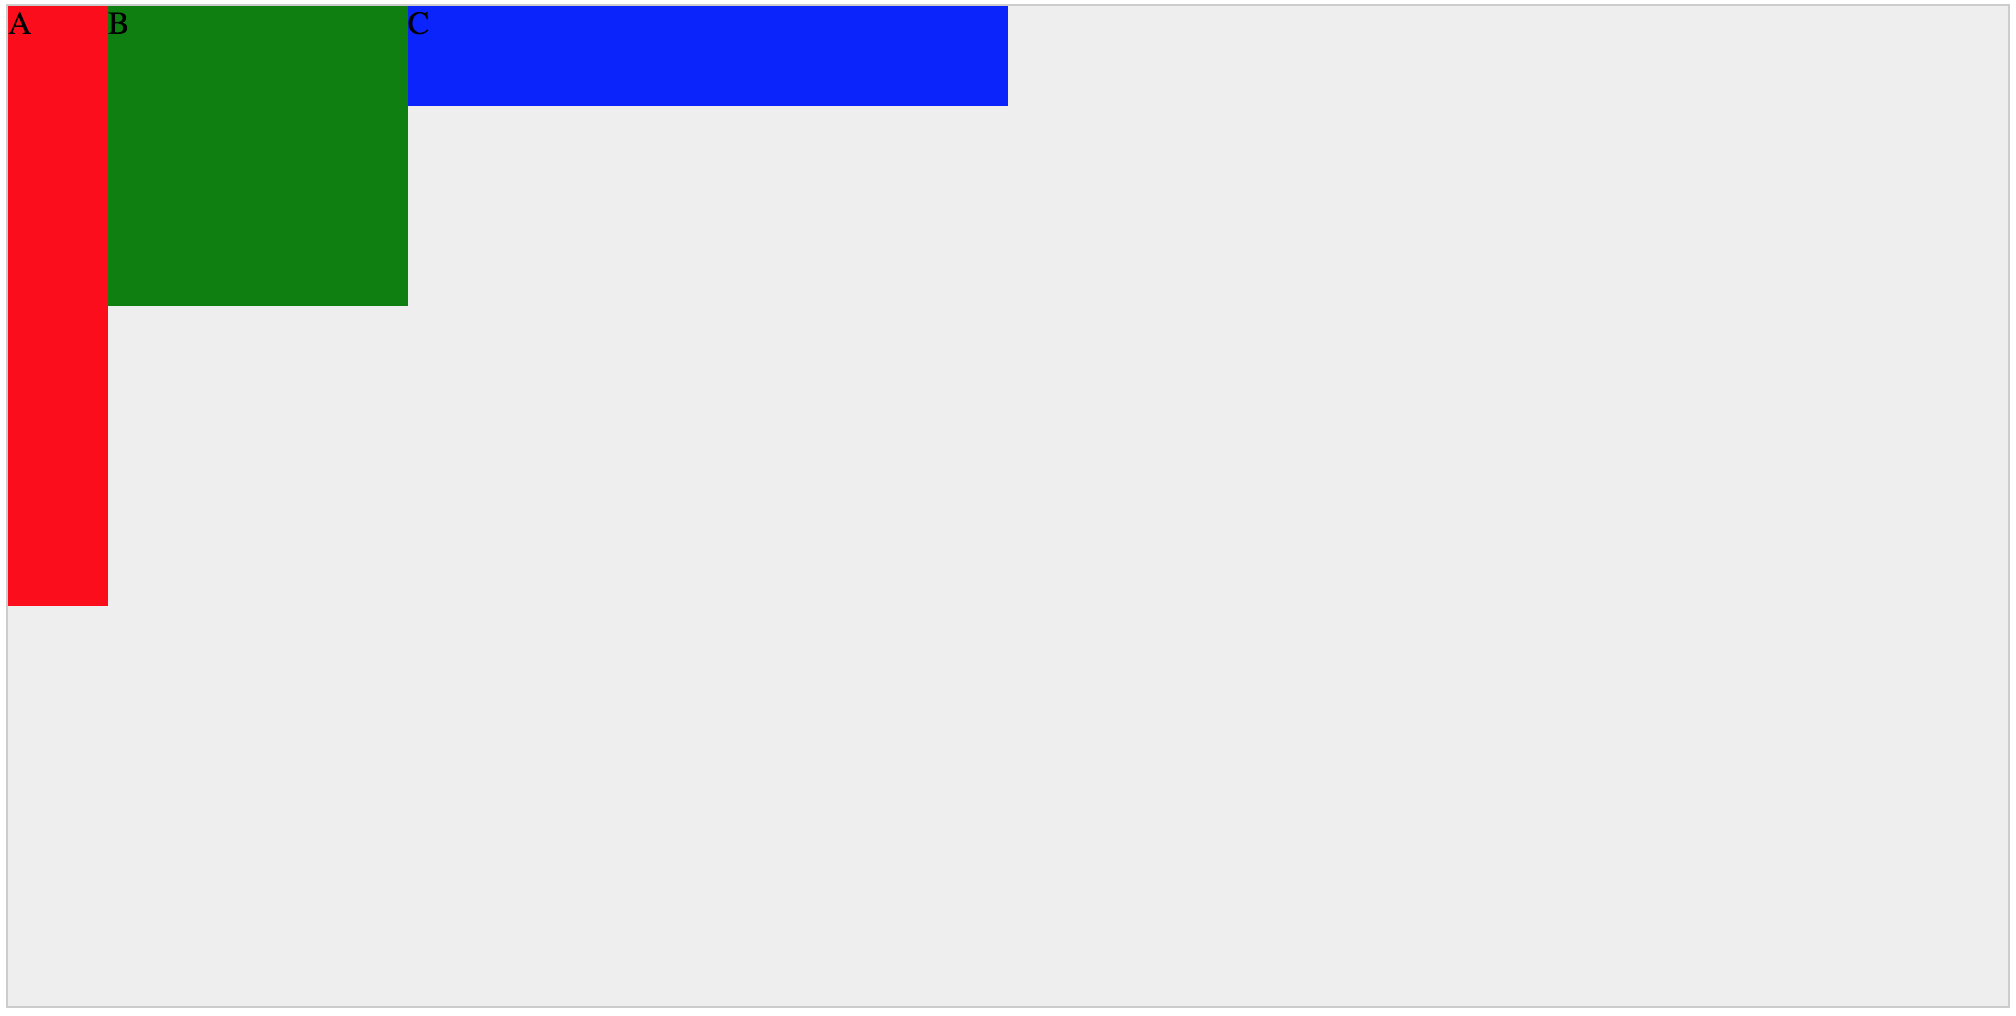
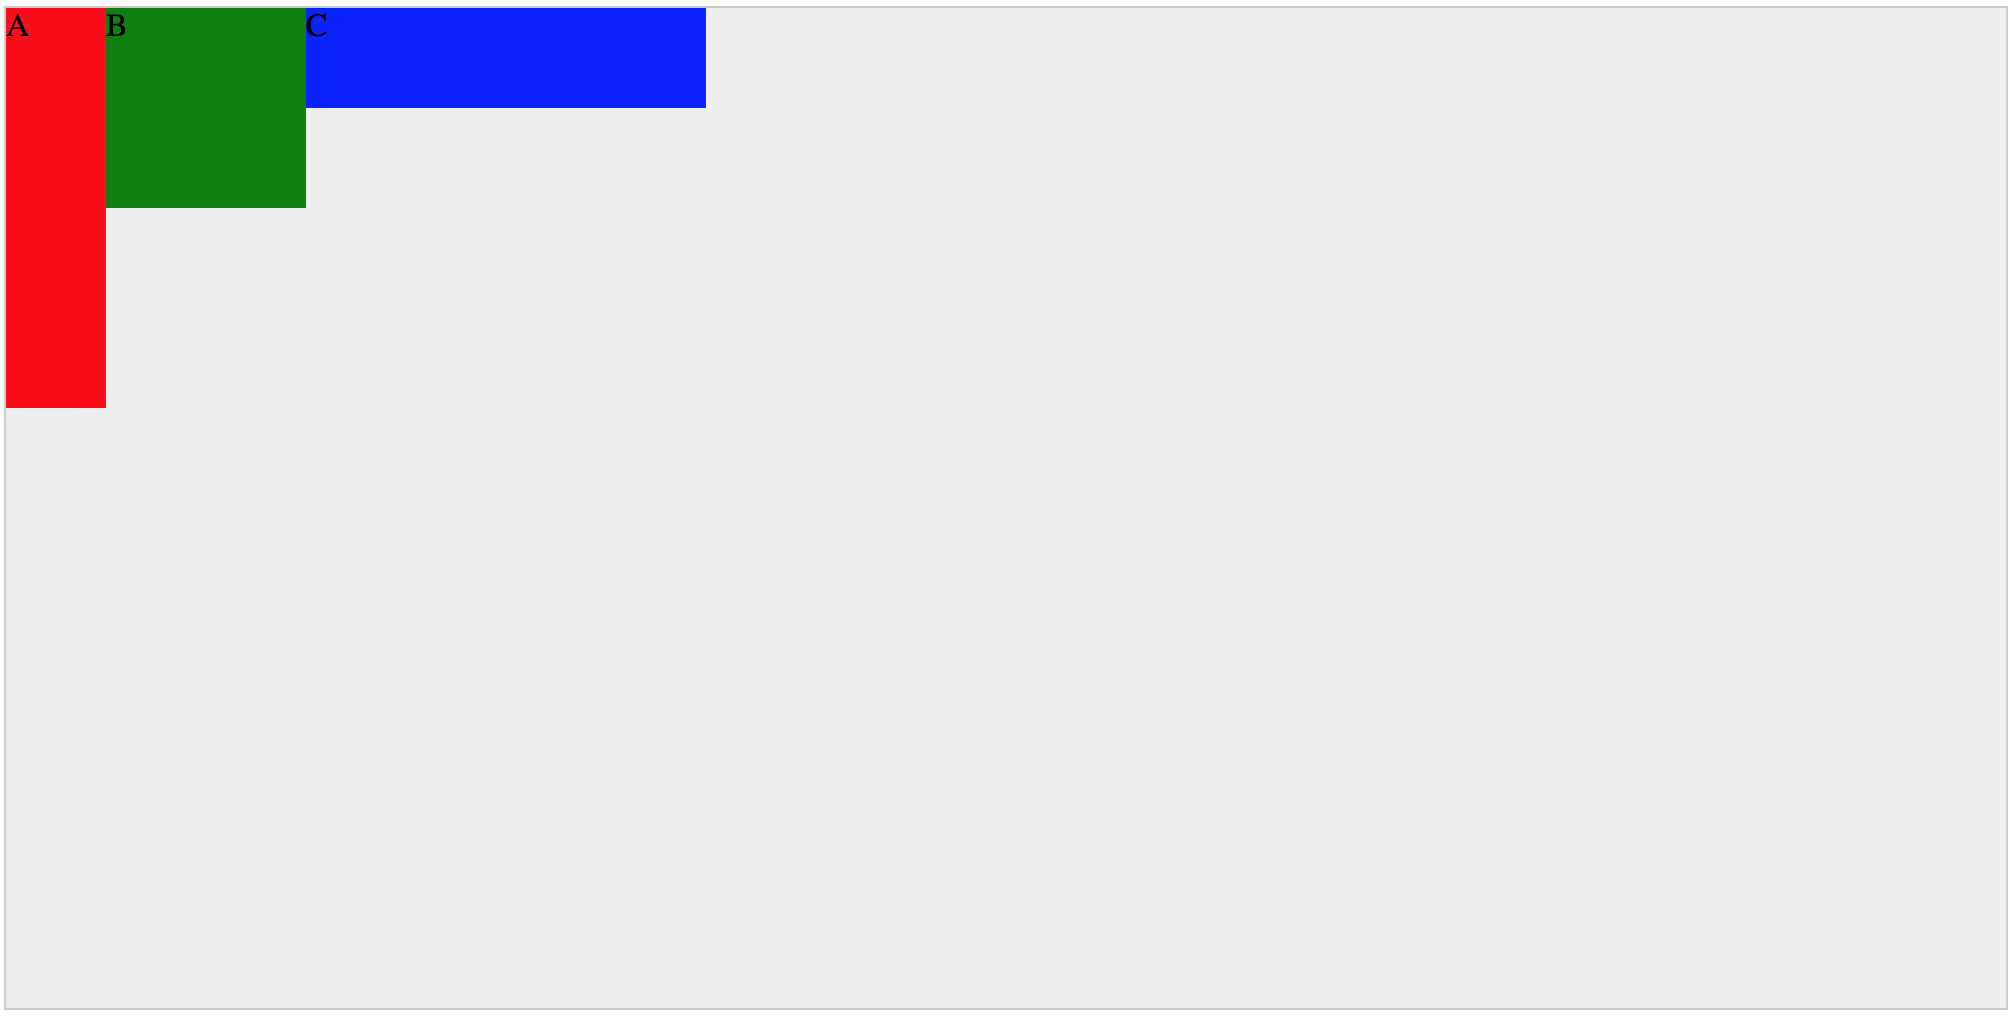
add flexbox03

Changed region(s): [[0.0, 0.0, 0.9851, 0.3051], [0.0, 0.3967, 0.0616, 0.6102]]

diff --git a/css/flexbox.md b/css/flexbox.md
@@ -1,9 +1,15 @@
 # Flexbox详解
 
-## 这里有三个普普通通的DIV元素
+## 这里有四个普普通通的DIV元素
 效果:
 
-![三个尺寸不同的普通div元素](images/flexbox01.png)
+![流动布局下的四个div元素](images/flexbox01.png)
+
+这里的普通的意思是：
+- 四个div遵循流动布局规则：块元素自上而下排列
+- 父元素(`.container`)是设置了宽高
+- 三个嵌套的子元素(`.itemX`)也设置了宽高
+
 HTML代码：
 ```
 <body>
@@ -26,34 +32,30 @@ CSS代码：
   }
   .item1{
     width:50px;
-    height:300px;
+    height:200px;
     background-color:red;
   }
   .item2{
     width:100px;
     height:100px;
     background-color:green;
-
   }
   .item3{
-    width:300px;
+    width:200px;
     height:50px;
     background-color:blue;
   }
 </style>
 ```
-这里的普通的意思是：
-- 父元素(`.container`)是一个块元素，宽度为1000px
-- 子元素(`.itemX`)也是块元素，各自都设置了宽高
 
-## display:设置flex布局
+## display:设置父容器为flex布局
 - flex
 - inline-flex
 
 效果：
-![三个尺寸不同的普通div元素](images/flexbox02.png)
+![重置父元素的display属性值为flex](images/flexbox02.png)
 
-重置display属性值为flex
+CSS代码：
 ```
 .container{
   max-width:1000px;
@@ -71,13 +73,15 @@ CSS代码：
 - 弹性布局也是一种由父元素决定子元素的布局模型。
 - 弹性布局下，所有的弹性子元素沿主轴排列。
 
-## flex-direction:改变主轴的方向
+## flex-direction:改变父容器主轴的方向
 - row
 - column
 - row-reverse
 - column-reverse
+效果：
+![设置父容器的主轴方向为column](images/flexbox03.png)
 
-改变flex-container主轴的方向
+CSS代码
 ```
 .container{
   max-width:1000px;
